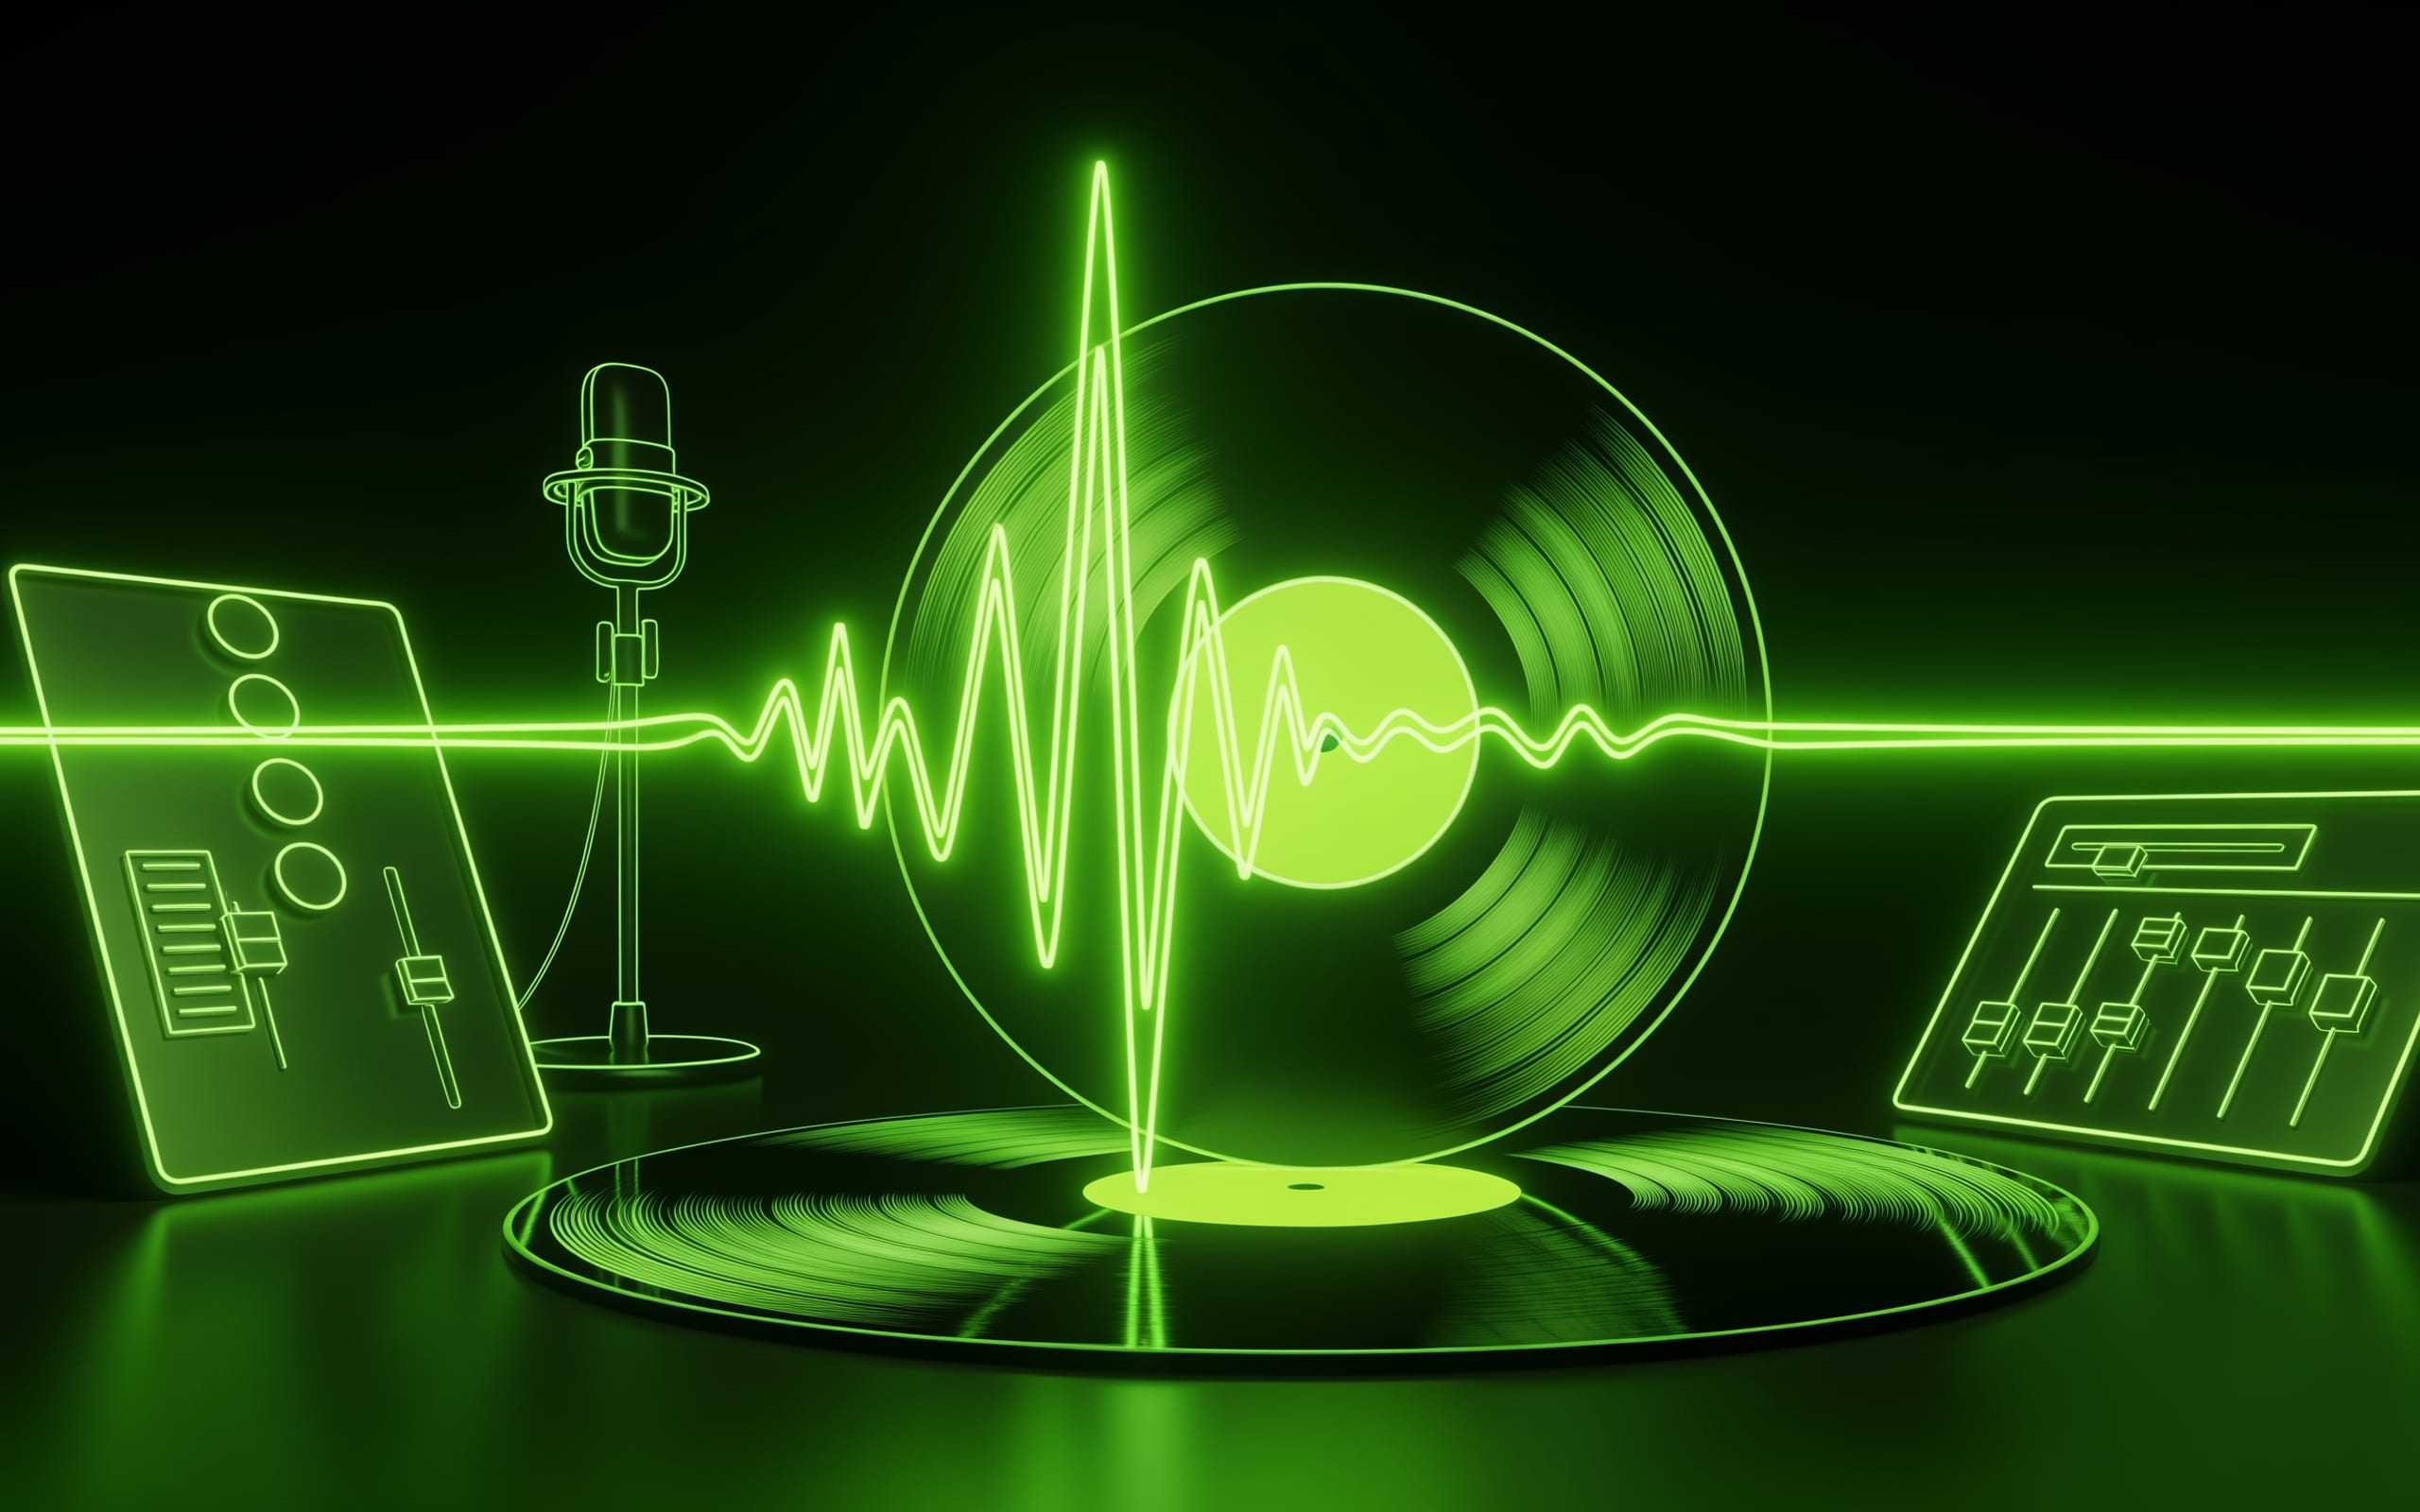
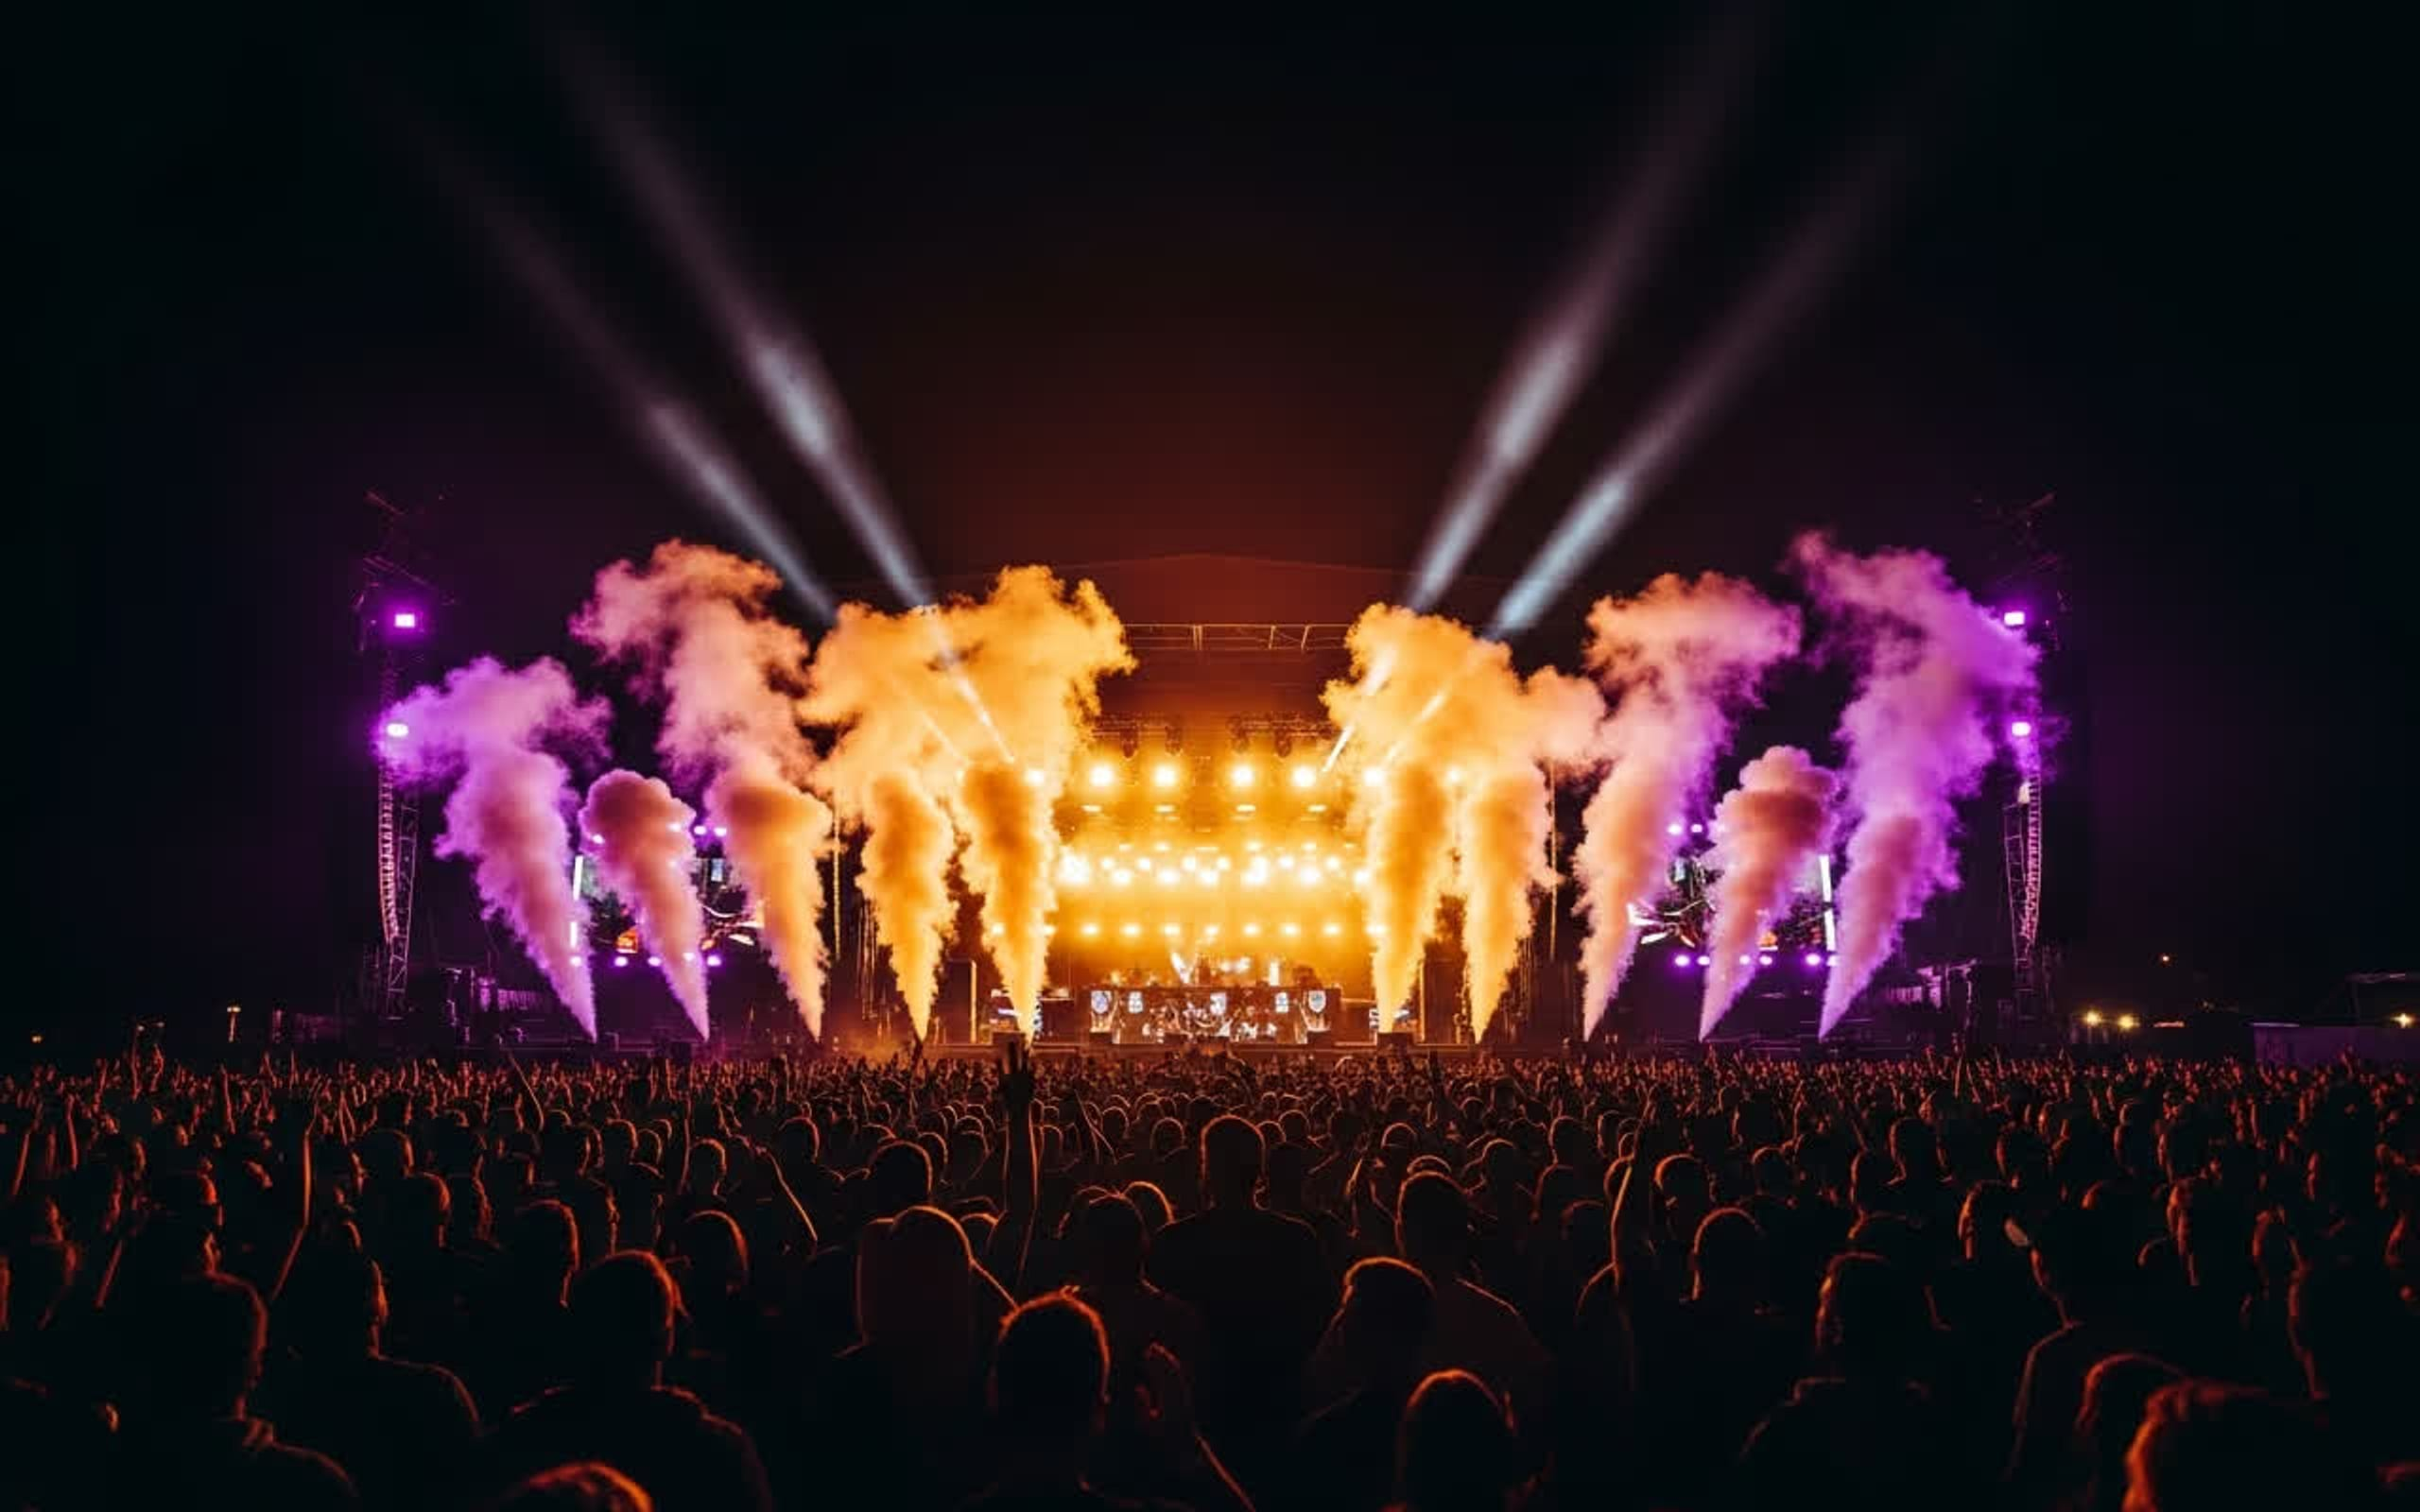
feat: real client photos + live links, Swifty festival hero, What-we-do hover video, mobile filter + cache-bust
- Chigwell case study: real venue photos from chigwell-marquees-v2 in "The Work";
  Swifty case study: brand photos from swiftybeats + "The Work"; both link the
  live site (new liveUrl field, rendered on the case-study hero)
- Swifty card: replace the green-neon art with the real festival shot + a matching
  Veo hover video
- home "What we do": capability cards now play an ambient Veo video on hover
  (HoverVideo inside TiltedCard)
- mobile: work filter pills no longer wrap/crop — single-line, horizontally
  scrollable (nowrap + no shrink)
- media: cache-bust all image/video URLs (?v=) so mobile stops serving stale
  optimized variants after in-place regeneration

diff --git a/src/content/case-studies/chigwell-marquees.ts b/src/content/case-studies/chigwell-marquees.ts
@@ -55,33 +55,32 @@ const chigwellMarquees: CaseStudy = {
   ],
   work: [
     img(
-      "/media/work/chigwell/01.jpg",
-      "Brand stationery and monogram detail on uncoated stock.",
+      "/media/work/chigwell/site-01.jpg",
+      "A large clear-span luxury marquee dressed for a celebration.",
+      2560,
+      1440,
+    ),
+    img(
+      "/media/work/chigwell/site-02.jpg",
+      "An elegant event interior at The Chigwell Marquees.",
       1600,
       2000,
     ),
-    loop(
-      "/media/hero/home",
-      "/media/work/chigwell/hero.jpg",
-      "Ambient motion study — rosewood ink in water.",
-      1920,
-      960,
+    img(
+      "/media/work/chigwell/site-03.jpg",
+      "The venue's period hall interior.",
+      2400,
+      1500,
     ),
     img(
-      "/media/work/chigwell/02.jpg",
-      "Website art direction shown across devices.",
-      2560,
+      "/media/work/chigwell/site-04.jpg",
+      "An Asian wedding mandap staged within the marquee.",
       1600,
+      2000,
     ),
     img(
-      "/media/work/chigwell/03.jpg",
-      "Social grid detail — art-directed event photography.",
-      1600,
-      1600,
-    ),
-    img(
-      "/media/work/chigwell/04.jpg",
-      "Full-bleed interior of the marquee dressed for a wedding breakfast.",
+      "/media/work/chigwell/site-05.jpg",
+      "A full-bleed marquee interior dressed for a private event.",
       2560,
       1280,
     ),
@@ -97,6 +96,7 @@ const chigwellMarquees: CaseStudy = {
       "A complete brand world and fast, image-led website for The Chigwell Marquees, a luxury private events venue in Essex.",
     ogImage: "/media/work/chigwell/hero.jpg",
   },
+  liveUrl: "https://chigwell-marquees-v2.vercel.app",
 };
 
 export default chigwellMarquees;

diff --git a/src/app/page.tsx b/src/app/page.tsx
@@ -3,7 +3,7 @@ import Hero from "@/components/sections/Hero";
 import Reveal from "@/components/motion/Reveal";
 import SplitHeading from "@/components/motion/SplitHeading";
 import WorkCard from "@/components/work/WorkCard";
-import Img from "@/components/media/Img";
+import HoverVideo from "@/components/media/HoverVideo";
 import HyperspeedBg from "@/components/media/HyperspeedBg";
 import TiltedCard from "@/components/media/TiltedCard";
 import Button from "@/components/ui/Button";
@@ -11,19 +11,20 @@ import Magnetic from "@/components/motion/Magnetic";
 import TransitionLink from "@/components/ui/TransitionLink";
 import { ArrowUpRight } from "@/components/ui/icons";
 import { getAllCaseStudies } from "@/content";
-import { img } from "@/lib/media";
+import { loop } from "@/lib/media";
 import { CAPABILITIES } from "@/lib/site";
 
 export const metadata: Metadata = {
   alternates: { canonical: "/" },
 };
 
-// AI-generated stand-in imagery for the capability cards (see CONTENT-TODO.md).
-const CAP_IMAGES = [
-  img("/media/capabilities/01.jpg", "An embossed luxury branding suite with a wax seal and colour swatches", 1200, 1600),
-  img("/media/capabilities/02.jpg", "A stack of foil-embossed print collateral beside a cotton tote", 1200, 1600),
-  img("/media/capabilities/03.jpg", "A minimal website shown on a laptop and phone on a marble desk", 1200, 1600),
-  img("/media/capabilities/04.jpg", "An editorial social-content flat lay of printed photo tiles and florals", 1200, 1600),
+// AI-generated stand-in imagery for the capability cards — each plays an ambient
+// video on hover (poster = the still). See CONTENT-TODO.md.
+const CAP_MEDIA = [
+  loop("/media/capabilities/01", "/media/capabilities/01.jpg", "An embossed luxury branding suite with a wax seal and colour swatches", 1200, 1600),
+  loop("/media/capabilities/02", "/media/capabilities/02.jpg", "A stack of foil-embossed print collateral beside a cotton tote", 1200, 1600),
+  loop("/media/capabilities/03", "/media/capabilities/03.jpg", "A minimal website shown on a laptop and phone on a marble desk", 1200, 1600),
+  loop("/media/capabilities/04", "/media/capabilities/04.jpg", "An editorial social-content flat lay of printed photo tiles and florals", 1200, 1600),
 ];
 
 export default function Home() {
@@ -76,9 +77,8 @@ export default function Home() {
                   </span>
                   <div className="relative -mt-5 aspect-[4/5]">
                     <TiltedCard rotateAmplitude={12} scaleOnHover={1.08}>
-                      <Img
-                        media={CAP_IMAGES[i]}
-                        fill
+                      <HoverVideo
+                        media={CAP_MEDIA[i]}
                         sizes="(min-width: 1024px) 22vw, 45vw"
                       />
                     </TiltedCard>

diff --git a/src/lib/media.ts b/src/lib/media.ts
@@ -3,9 +3,15 @@ import type { ImageMedia, VideoMedia } from "@/content/schema";
 
 const BLUR: Record<string, string> = blurMap;
 
+// Bump to bust the Vercel/Next image + CDN cache after regenerating assets in
+// place (same path, new content) — otherwise mobile can keep serving stale
+// optimized variants. Appended as ?v= to every media URL.
+const CACHE_V = "3";
+const v = (src: string) => `${src}?v=${CACHE_V}`;
+
 /** Returns the precomputed blurDataURL for a local image src, if any. */
 export function getBlur(src: string): string | undefined {
-  return BLUR[src];
+  return BLUR[src.split("?")[0]];
 }
 
 /** Convenience builder for a local placeholder image with blur baked in. */
@@ -16,7 +22,7 @@ export function img(
   height: number,
   priority = false,
 ): ImageMedia {
-  return { type: "image", src, alt, width, height, priority };
+  return { type: "image", src: v(src), alt, width, height, priority };
 }
 
 /** Convenience builder for a self-hosted ambient video loop (MP4 + WebM). */
@@ -29,14 +35,14 @@ export function loop(
 ): VideoMedia {
   return {
     type: "video",
-    poster,
+    poster: v(poster),
     alt,
     width,
     height,
     provider: "self",
     sources: [
-      { src: `${base}.webm`, type: "video/webm" },
-      { src: `${base}.mp4`, type: "video/mp4" },
+      { src: v(`${base}.webm`), type: "video/webm" },
+      { src: v(`${base}.mp4`), type: "video/mp4" },
     ],
   };
 }

diff --git a/src/app/work/[slug]/page.tsx b/src/app/work/[slug]/page.tsx
@@ -128,6 +128,19 @@ export default async function CaseStudyPage({
               ))}
             </ul>
           </Reveal>
+          {study.liveUrl && (
+            <Reveal delay={200}>
+              <a
+                href={study.liveUrl}
+                target="_blank"
+                rel="noopener noreferrer"
+                className="mt-9 inline-flex items-center gap-2 rounded-full border border-(--color-paper-on-dark)/40 px-6 py-3 text-sm tracking-tight text-(--color-paper-on-dark) transition-colors duration-500 hover:border-transparent hover:bg-(--color-paper-on-dark) hover:text-(--color-ink)"
+              >
+                Visit the live site
+                <ArrowUpRight className="size-4" />
+              </a>
+            </Reveal>
+          )}
         </div>
       </header>
 

diff --git a/src/content/case-studies/swifty-beats.ts b/src/content/case-studies/swifty-beats.ts
@@ -1,6 +1,7 @@
 import { placeholderStudy } from "@/content/case-studies/_placeholder";
+import { img } from "@/lib/media";
 
-// TODO: client to confirm (planning §13.1) and supply real assets/copy/results.
+// TODO: client to confirm (planning §13.1) and supply real copy/results.
 export default placeholderStudy({
   slug: "swifty-beats",
   client: "Swifty Beats",
@@ -8,6 +9,12 @@ export default placeholderStudy({
   order: 3,
   disciplines: ["Design & Branding", "Social Media"],
   heroSrc: "/media/work/swifty/hero.jpg",
-  heroAlt: "Swifty Beats — bold electric-green brand artwork.",
+  heroAlt: "Swifty Beats — a live festival stage lit in gold and purple.",
   heroVideo: true,
+  liveUrl: "https://swiftybeats.vercel.app",
+  work: [
+    img("/media/work/swifty/site-01.jpg", "Swifty Beats — a warm-lit recording studio.", 2400, 1680),
+    img("/media/work/swifty/site-02.jpg", "Swifty Beats — a live broadcast set.", 2400, 1680),
+    img("/media/work/swifty/site-03.jpg", "Swifty Beats — hands mixing on a DJ deck.", 2560, 1280),
+  ],
 });

diff --git a/src/content/case-studies/_placeholder.ts b/src/content/case-studies/_placeholder.ts
@@ -1,4 +1,4 @@
-import type { CaseStudy, Discipline } from "@/content/schema";
+import type { CaseStudy, Discipline, Media } from "@/content/schema";
 import { img, loop } from "@/lib/media";
 
 /**
@@ -16,6 +16,10 @@ export function placeholderStudy(opts: {
   heroAlt: string;
   /** When true, the hero plays a Veo ambient loop on hover (poster = heroSrc). */
   heroVideo?: boolean;
+  /** Real project imagery for the "The Work" section. */
+  work?: Media[];
+  /** Live website we built for this client, if published. */
+  liveUrl?: string;
 }): CaseStudy {
   const { slug, client, sector, order, disciplines, heroSrc, heroAlt, heroVideo } = opts;
   return {
@@ -37,12 +41,13 @@ export function placeholderStudy(opts: {
       area,
       summary: `TODO: client to supply — what Pink Tree delivered under ${area}.`,
     })),
-    work: [],
+    work: opts.work ?? [],
     results: [],
     seo: {
       title: `${client} — Case study`,
       description: `A Pink Tree Media case study for ${client}. Details to follow.`,
       ogImage: heroSrc,
     },
+    liveUrl: opts.liveUrl,
   };
 }

diff --git a/src/app/globals.css b/src/app/globals.css
@@ -975,12 +975,14 @@
   cursor: pointer;
   transition: color 0.3s ease;
   color: var(--color-paper-on-dark);
+  flex-shrink: 0; /* never squeeze/wrap the labels — the row scrolls instead */
 }
 .gooey-nav-container nav ul li a {
   display: inline-block;
   padding: 0.5em 1.1em;
   font-size: 0.875rem;
   letter-spacing: -0.01em;
+  white-space: nowrap;
 }
 .gooey-nav-container nav ul li::after {
   content: "";

diff --git a/src/content/schema.ts b/src/content/schema.ts
@@ -68,6 +68,8 @@ export const caseStudySchema = z.object({
     description: z.string().min(1),
     ogImage: z.string().min(1),
   }),
+  /** Live website we built for this client, if published. */
+  liveUrl: z.string().url().optional(),
 });
 
 export type ImageMedia = z.infer<typeof imageMediaSchema>;